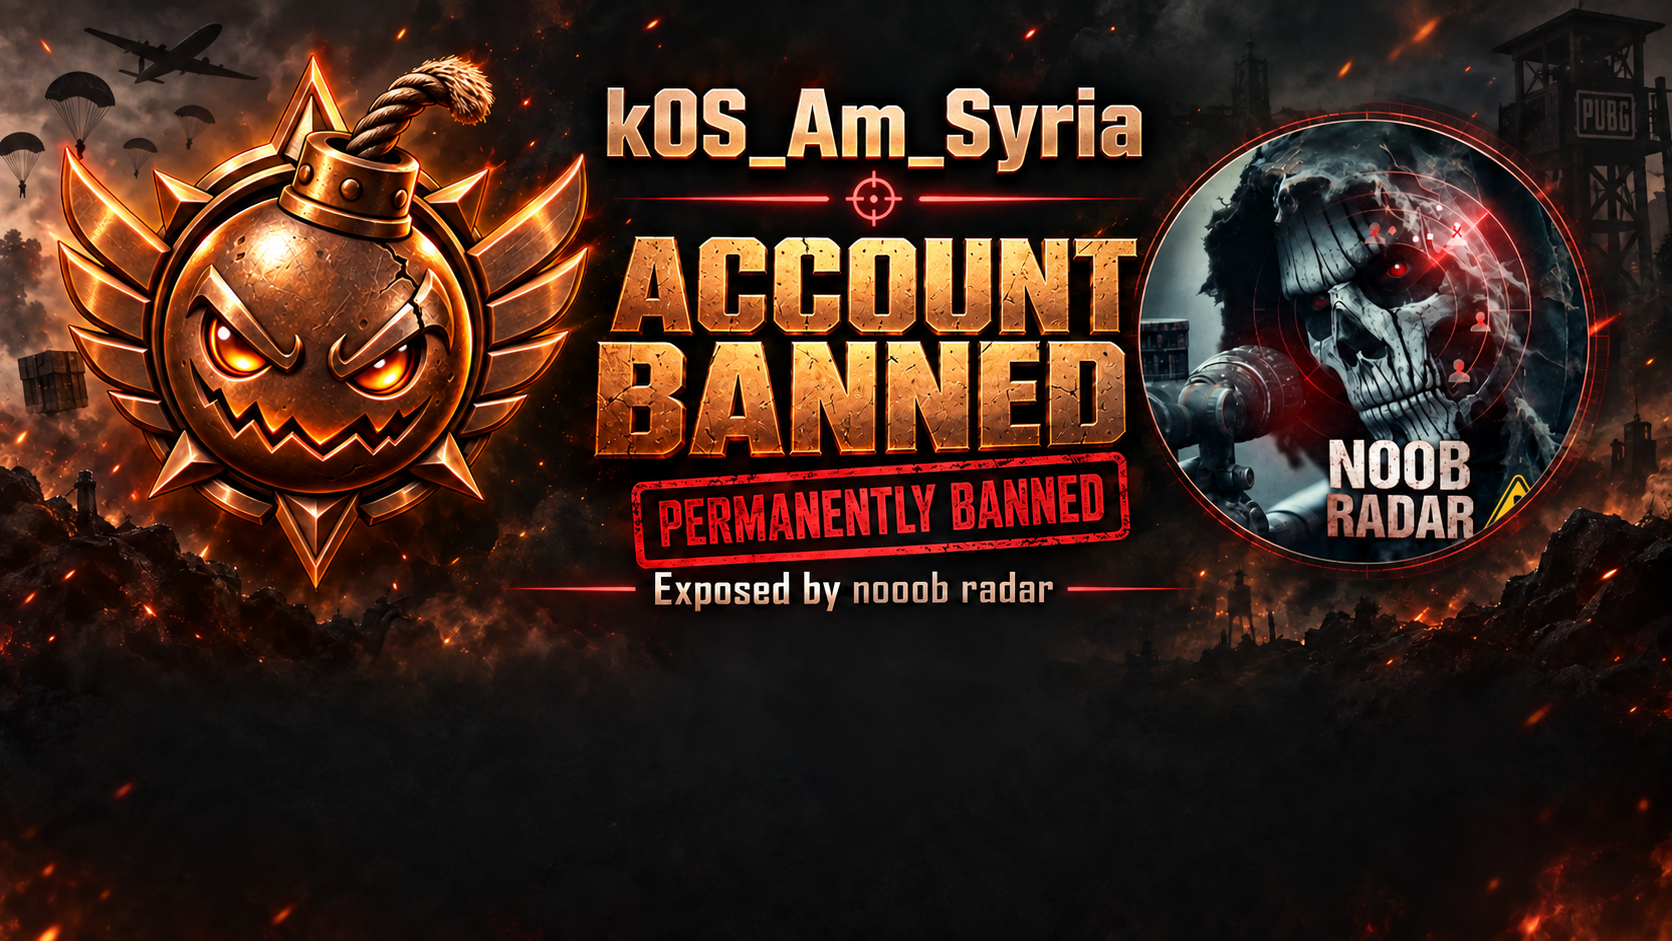
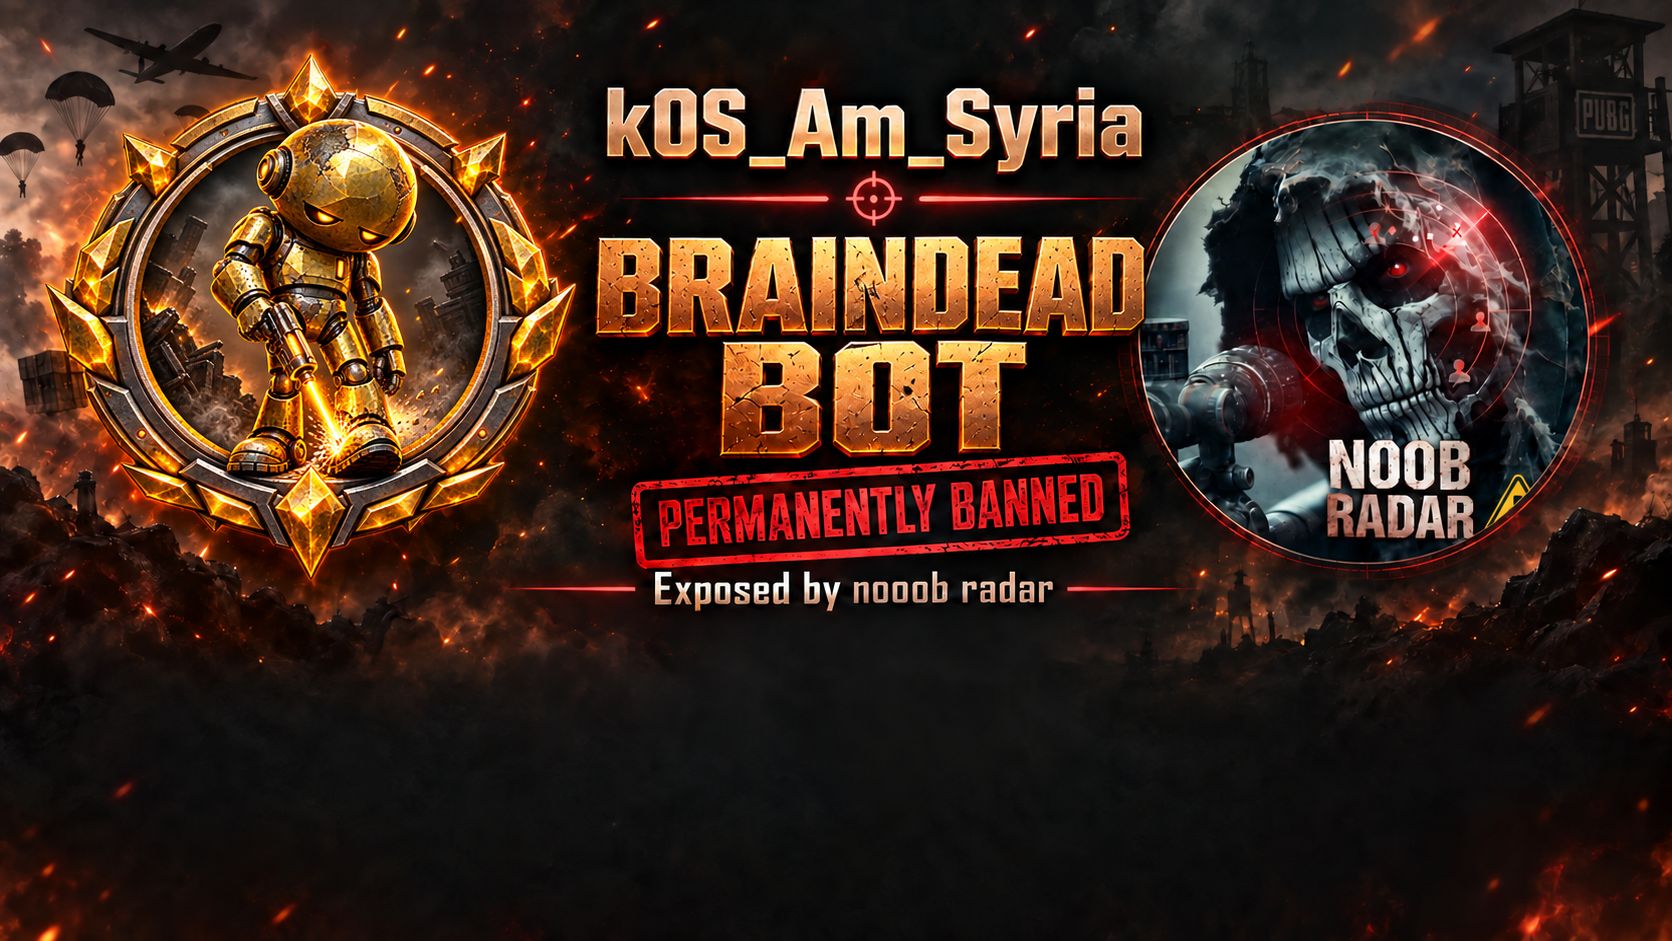
Correct Syria Nooob Radar card to Braindead Bot tier

diff --git a/index.html b/index.html
@@ -33,7 +33,7 @@
   <script src="js/theme.js?v=20260827b"></script>
   <link rel="stylesheet" href="css/themes.css">
   <link rel="stylesheet" href="css/site-layout.css?v=20260827b">
-  <script defer src="js/ban-card.js?v=20260921b"></script>
+  <script defer src="js/ban-card.js?v=20260921c"></script>
   <script defer src="js/watchlist-store.js?v=20260827c"></script>
   <script defer src="js/main.js?v=20260915a"></script>
   <script defer src="js/i18n.js?v=20251228"></script>

diff --git a/watchlist.html b/watchlist.html
@@ -38,7 +38,7 @@
   <link rel="stylesheet" href="css/themes.css">
   <link rel="stylesheet" href="css/site-layout.css?v=20260827b">
 
-  <script defer src="js/ban-card.js?v=20260921b"></script>
+  <script defer src="js/ban-card.js?v=20260921c"></script>
   <script defer src="js/watchlist-store.js?v=20260827c"></script>
   <script defer src="js/auth-ui.js?v=20260829a"></script>
   <script defer src="js/watchlist.js?v=20260829a"></script>

diff --git a/js/ban-card.js b/js/ban-card.js
@@ -42,7 +42,7 @@
       accent: "#f0b47d"
     },
     "account.6e46ef475f0b4cf3a0996083a1d7b260": {
-      image: "img/ban-cards/k0s-am-syria-nooob-radar.png?v=20260921a",
+      image: "img/ban-cards/k0s-am-syria-nooob-radar.png?v=20260921b",
       filename: "PUBGBanChecker_k0S_Am_Syria_ExposedByNooobRadar.png",
       title: "Exposed by nooob radar",
       accent: "#f0b47d"
